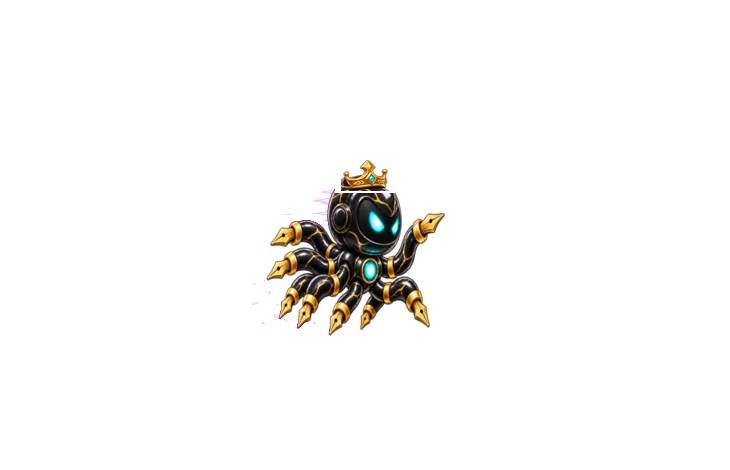
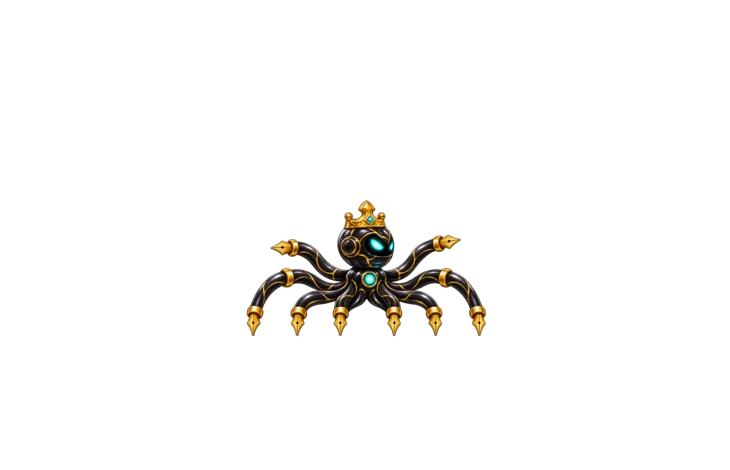
OctoSmash: testa del Bianco, Imperatore 15-16, effetti delle evoluzioni, foto della Squadra, popup Novità
Claude-Session: https://claude.ai/code/session_01Sp9suYVdKRZstTjztCU4X9

Changed region(s): [[0.3315, 0.3277, 0.663, 0.7149]]

diff --git a/Stefano/SMASHCROP-octosmash/app/lib/features/octo/presentation/octo_layer.dart b/Stefano/SMASHCROP-octosmash/app/lib/features/octo/presentation/octo_layer.dart
@@ -156,7 +156,42 @@ abstract final class OctoFrames {
   static final Map<String, List<ui.Image>> lines = {};
   static final Set<String> _loading = {};
 
+  /// Effetti speciali delle evoluzioni: 6 elementi che volano allo spruzzo.
+  static final Map<String, List<ui.Image>> effects = {};
+
+  static void _loadEffects() {
+    for (final evo in const [
+      'fusione',
+      'stampa',
+      'abisso',
+      'diluvio',
+      'imperatore',
+    ]) {
+      if (effects.containsKey(evo) || !_loading.add('fx:$evo')) continue;
+      Future.wait([
+        for (var i = 1; i <= 6; i++)
+          () async {
+            final data = await rootBundle.load(
+              'assets/octo/effetti/${evo}_$i.webp',
+            );
+            final codec = await ui.instantiateImageCodec(
+              data.buffer.asUint8List(),
+            );
+            final img = (await codec.getNextFrame()).image;
+            codec.dispose();
+            return img;
+          }(),
+      ]).then(
+        (l) => effects[evo] = l,
+        onError: (_) {
+          _loading.remove('fx:$evo');
+        },
+      );
+    }
+  }
+
   static void load() {
+    _loadEffects();
     // 'pipetta:ink' = solo l'inchiostro magenta della Pipetta, in grigio,
     // da ricolorare col colore preso
     for (final line in const [
@@ -223,7 +258,10 @@ class OctoPainter extends CustomPainter {
     canvas.clipRect(Offset.zero & size);
     final splash = c.octoSplash;
     if (splash != null) _paintSplash(canvas, splash);
-    if (c.octoAnimating) _paintRobot(canvas, size);
+    if (c.octoAnimating) {
+      _paintRobot(canvas, size);
+      _paintEffects(canvas);
+    }
     final pick = c.octoPickAt;
     if (c.octoPicking && pick != null) _paintLoupe(canvas, size, pick);
     if (c.octoPicking && pick == null) _hint(canvas, size);
@@ -359,6 +397,46 @@ class OctoPainter extends CustomPainter {
       Paint()..color = _cyan,
     );
     tp.paint(canvas, box.center - Offset(tp.width / 2, tp.height / 2));
+  }
+
+  /// Gli elementi dell'evoluzione (scintille, bollicine, monetine...)
+  /// schizzano fuori dal rettangolo quando arriva lo spruzzo, ricadono e
+  /// svaniscono in meno di un secondo.
+  void _paintEffects(Canvas canvas) {
+    final evo = c.octoEvolution;
+    final target = c.octoAnimTarget;
+    if (evo == null || target == null) return;
+    final imgs = OctoFrames.effects[evo];
+    if (imgs == null) return;
+    final t =
+        (DateTime.now().millisecondsSinceEpoch - c.octoSplashStart) / 1000;
+    if (t < 0 || t > 1) return;
+    final o = c.contentToScreen(target);
+    final rnd = math.Random(c.octoAnimStart);
+    for (var k = 0; k < 12; k++) {
+      final img = imgs[k % imgs.length];
+      final ang = -math.pi / 2 + (rnd.nextDouble() - .5) * math.pi * 1.6;
+      final speed = 160 + rnd.nextDouble() * 220;
+      final p =
+          o +
+          Offset(math.cos(ang), math.sin(ang)) * speed * t +
+          Offset(0, 420 * t * t); // ricade
+      final size = 26 + rnd.nextDouble() * 22;
+      final spin = (rnd.nextDouble() - .5) * 6 * t;
+      final alpha = (1 - t).clamp(0.0, 1.0);
+      canvas.save();
+      canvas.translate(p.dx, p.dy);
+      canvas.rotate(spin);
+      canvas.drawImageRect(
+        img,
+        Rect.fromLTWH(0, 0, img.width.toDouble(), img.height.toDouble()),
+        Rect.fromCenter(center: Offset.zero, width: size, height: size),
+        Paint()
+          ..filterQuality = FilterQuality.medium
+          ..color = Color.fromRGBO(0, 0, 0, alpha),
+      );
+      canvas.restore();
+    }
   }
 
   static Color _veil(int color) => Color(color).withValues(alpha: .5);

diff --git a/Stefano/SMASHCROP-octosmash/app/lib/features/octo/presentation/octo_news.dart b/Stefano/SMASHCROP-octosmash/app/lib/features/octo/presentation/octo_news.dart
@@ -1,0 +1,69 @@
+import 'package:material_ui/material_ui.dart';
+
+import '../../../app/strings.dart';
+import '../../../app/theme.dart';
+import '../../../core/widgets/app_button.dart';
+import '../../rubble/application/rubble_store.dart';
+
+/// Popup "Novità: OctoSmash!", mostrato una volta sola.
+abstract final class OctoNews {
+  static Future<void> maybeShow(BuildContext context) async {
+    final s = RubbleStore.instance;
+    if (s.octoNewsSeen) return;
+    s.markOctoNewsSeen();
+    await showDialog<void>(
+      context: context,
+      builder: (ctx) => Dialog(
+        backgroundColor: AppColors.surface,
+        insetPadding: const EdgeInsets.symmetric(horizontal: 24, vertical: 32),
+        clipBehavior: Clip.antiAlias,
+        shape: RoundedRectangleBorder(borderRadius: BorderRadius.circular(22)),
+        child: SingleChildScrollView(
+          child: Column(
+            mainAxisSize: MainAxisSize.min,
+            crossAxisAlignment: CrossAxisAlignment.stretch,
+            children: [
+              Image.asset('assets/octo/novita.webp', fit: BoxFit.cover),
+              Padding(
+                padding: const EdgeInsets.fromLTRB(20, 16, 20, 18),
+                child: Column(
+                  crossAxisAlignment: CrossAxisAlignment.stretch,
+                  children: [
+                    Text(
+                      S.octoNewsTitle,
+                      textAlign: TextAlign.center,
+                      style: TextStyle(
+                        fontFamily: kDisplayFont,
+                        fontSize: 24,
+                        fontWeight: FontWeight.w800,
+                        color: AppColors.text,
+                      ),
+                    ),
+                    const SizedBox(height: 8),
+                    Text(
+                      S.octoNewsBody,
+                      textAlign: TextAlign.center,
+                      style: const TextStyle(
+                        color: AppColors.textMuted,
+                        fontSize: 15,
+                        height: 1.35,
+                      ),
+                    ),
+                    const SizedBox(height: 16),
+                    AppButton(
+                      label: 'OK',
+                      style: AppButtonStyle.primary,
+                      height: 46,
+                      fontSize: 16,
+                      onPressed: () => Navigator.pop(ctx),
+                    ),
+                  ],
+                ),
+              ),
+            ],
+          ),
+        ),
+      ),
+    );
+  }
+}

diff --git a/Stefano/SMASHCROP-octosmash/app/lib/app/strings.dart b/Stefano/SMASHCROP-octosmash/app/lib/app/strings.dart
@@ -660,6 +660,22 @@ class S {
 
   // --- più immagini ---------------------------------------------------------
 
+  static String get octoNewsTitle => _t(
+    'Novità: OctoSmash!',
+    'New: OctoSmash!',
+    'Nouveau : OctoSmash !',
+    '¡Novedad: OctoSmash!',
+    'Novidade: OctoSmash!',
+    'Neu: OctoSmash!',
+  );
+  static String get octoNewsBody => _t(
+    'Copre parti di immagini e PDF con inchiostro bianco, nero o del colore che vuoi. Tieni premuto «Rimuovi porzione» oppure scegli «Passa a OctoSmash» dal menu.',
+    'Cover parts of images and PDFs with white, black or any colour of ink. Press and hold “Remove section” or choose “Switch to OctoSmash” in the menu.',
+    'Recouvre des parties d’images et de PDF avec de l’encre blanche, noire ou de la couleur de ton choix. Maintiens « Supprimer la partie » ou choisis « Passer à OctoSmash » dans le menu.',
+    'Cubre partes de imágenes y PDF con tinta blanca, negra o del color que quieras. Mantén pulsado «Eliminar sección» o elige «Cambiar a OctoSmash» en el menú.',
+    'Cobre partes de imagens e PDFs com tinta branca, preta ou da cor que quiser. Mantenha pressionado «Remover parte» ou escolha «Mudar para OctoSmash» no menu.',
+    'Überdeckt Teile von Bildern und PDFs mit weißer, schwarzer oder beliebig farbiger Tinte. Halte „Bereich entfernen“ gedrückt oder wähle „Zu OctoSmash wechseln“ im Menü.',
+  );
   static String get useOcto => _t(
     'Usa questo OctoSmash',
     'Use this OctoSmash',

diff --git a/Stefano/SMASHCROP-octosmash/app/lib/features/rubble/application/rubble_store.dart b/Stefano/SMASHCROP-octosmash/app/lib/features/rubble/application/rubble_store.dart
@@ -38,6 +38,15 @@ class RubbleStore extends ChangeNotifier {
   /// suo tasto; altrimenti un'evoluzione che fa tutto lei.
   String octoSkin = 'squadra';
 
+  /// Il popup "Novità: OctoSmash" è già stato visto.
+  bool octoNewsSeen = false;
+
+  void markOctoNewsSeen() {
+    if (octoNewsSeen) return;
+    octoNewsSeen = true;
+    _save();
+  }
+
   /// La scena della fusione (i 4 che si uniscono) è già stata vista.
   bool fusionSeen = false;
 
@@ -175,6 +184,7 @@ class RubbleStore extends ChangeNotifier {
       inkWhiteMl = (m['iw'] as num?)?.toInt() ?? 0;
       octoSkin = m['os'] as String? ?? 'squadra';
       fusionSeen = m['fs'] == true;
+      octoNewsSeen = m['nv'] == true;
       unlocked.addAll((m['u'] as List).cast<String>());
       seen.addAll((m['seen'] as List? ?? const []).cast<String>());
       milestonesDone.addAll((m['ms'] as List? ?? const []).cast<String>());
@@ -203,6 +213,7 @@ class RubbleStore extends ChangeNotifier {
     'iw': inkWhiteMl,
     'os': octoSkin,
     'fs': fusionSeen,
+    'nv': octoNewsSeen,
     'u': unlocked.toList(),
     'seen': seen.toList(),
     'ms': milestonesDone.toList(),

diff --git a/Stefano/SMASHCROP-octosmash/app/lib/features/octo/presentation/octo_collection_screen.dart b/Stefano/SMASHCROP-octosmash/app/lib/features/octo/presentation/octo_collection_screen.dart
@@ -304,15 +304,10 @@ class _OctoCollectionScreenState extends State<OctoCollectionScreen> {
     final inUse = s.octoSkin == c.id;
     Widget head;
     if (c.isSquad) {
-      // i 4 di base, piccoli, a quadrifoglio
-      head = GridView.count(
-        crossAxisCount: 2,
-        physics: const NeverScrollableScrollPhysics(),
-        padding: EdgeInsets.zero,
-        children: [
-          for (final n in const ['bianco', 'nero', 'pipetta', 'multicolor'])
-            Image.asset('assets/octo/teste/${n}_testa.webp'),
-        ],
+      // la foto di gruppo dei 4 di base
+      head = Image.asset(
+        'assets/octo/teste/squadra_posa.webp',
+        fit: BoxFit.contain,
       );
     } else if (!c.ready) {
       head = const Icon(Icons.help_outline, size: 40, color: AppColors.border);

diff --git a/Stefano/SMASHCROP-octosmash/app/lib/features/home/home_screen.dart b/Stefano/SMASHCROP-octosmash/app/lib/features/home/home_screen.dart
@@ -1,3 +1,5 @@
+import '../octo/presentation/octo_news.dart';
+
 import 'dart:typed_data';
 
 import 'package:material_ui/material_ui.dart';
@@ -47,7 +49,11 @@ class _HomeScreenState extends State<HomeScreen> {
   void initState() {
     super.initState();
     _saved = SavedWork.decode(widget.preferences.savedWork);
-    WidgetsBinding.instance.addPostFrameCallback((_) => _refreshSaved());
+    WidgetsBinding.instance.addPostFrameCallback((_) {
+      _refreshSaved();
+      // una volta sola: la novità di OctoSmash
+      if (mounted) OctoNews.maybeShow(context);
+    });
   }
 
   /// Copia del file del lavoro in sospeso, letta in anticipo: così
